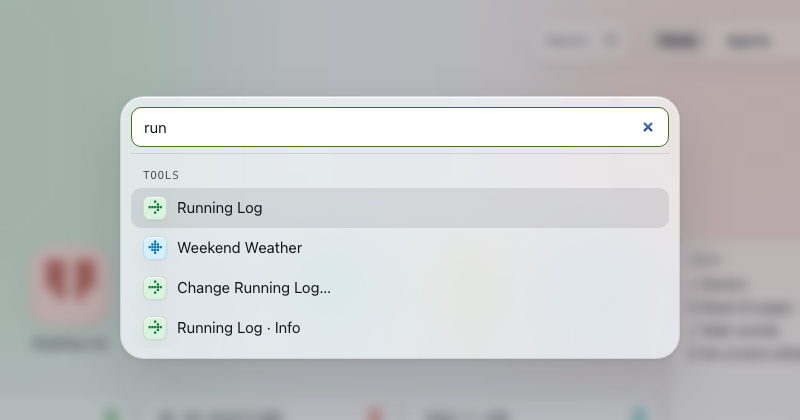
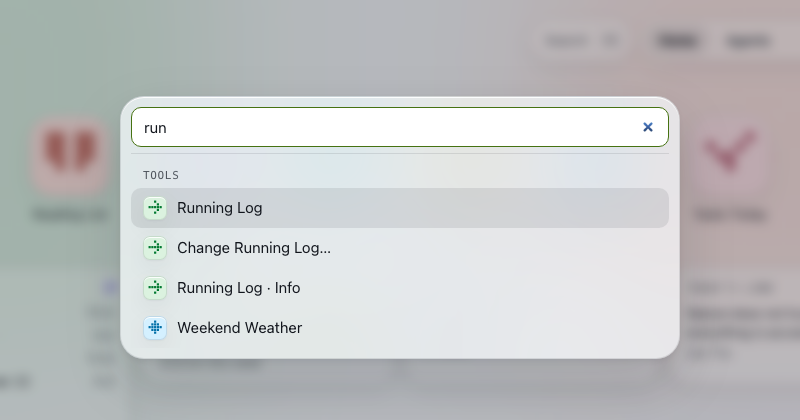
Post-launch fixes: failure reasons, health detail, doctor's registration check, web client polish
- The Inbox and Activity show a failed build's own reason (and what stopped
  the builder), not just "The builder stopped".
- Accounts shows a connection's health detail.
- hewn doctor reads where Claude Code and Codex registered Hewn and warns
  when it's another Hewn (another port).
- Home tile labels and widget titles wrap between words with an ellipsis;
  tiles align; Home starts under the top bar; bar charts get a nice axis
  (barAxis); single-call Activity rows open like groups; the palette ranks
  name matches first; the passkey page fits a phone.
- A test proves macOS metadata files (._*, .DS_Store) are ignored.
- Docs screenshots retaken where the UI changed.

diff --git a/packages/host-workerd/web/app.js b/packages/host-workerd/web/app.js
@@ -416,7 +416,10 @@ async function commandPalette() {
       const render = () => {
         const q = input.value.trim().toLowerCase();
         const words = q.split(/\s+/).filter(Boolean);
-        shown = items.filter((it) => (q ? words.every((w) => it.words.includes(w)) : !it.more)).slice(0, 40);
+        // Names first ("run" finds Running Log before a tool whose purpose mentions a long run), then the rest.
+        const named = (it) => words.every((w) => it.label.toLowerCase().includes(w));
+        const hits = items.filter((it) => (q ? words.every((w) => it.words.includes(w)) : !it.more));
+        shown = (q ? [...hits.filter(named), ...hits.filter((it) => !named(it))] : hits).slice(0, 40);
         at = Math.min(at, Math.max(0, shown.length - 1));
         let group = null;
         put(
@@ -2223,6 +2226,8 @@ async function accountsPage() {
           { class: "sub row tight wrap" },
           h("span", { class: `dot ${dot}` }),
           word.toLowerCase(),
+          // What health@1 says about it ("The session ended on 12 October"), when it says more than the word.
+          !b && x.health?.detail && [h("span", { class: "faint" }, "·"), h("span", { class: "clip-1 health-detail" }, x.health.detail)],
           !b && [h("span", { class: "faint" }, "·"), "used by", x.usedBy?.length ? x.usedBy.map((u) => capRef(all.get(u.id), u.id, { size: 18 })) : h("span", {}, "nothing yet")],
         ),
       ),
@@ -3303,12 +3308,13 @@ function activityRow(g, all, showCap) {
     } else {
       dot = errors.length === g.items.length ? "danger" : errors.length ? "warn" : "ok";
       text = on(`${who} made ${g.items.length} calls`, ref && ["to", ref], errors.length ? h("span", { class: "faint" }, `${errors.length} failed`) : "", modelNote);
-      expand = h(
-        "ul",
-        { class: "list nested", hidden: true },
-        g.items.map((c) => h("li", {}, h("span", { class: `dot ${c.outcome === "ok" ? "" : "danger"}` }), h("div", { class: "grow" }, h("span", { class: "mono small" }, c.operation), c.outcome !== "ok" && h("span", { class: "sub" }, c.outcome.replace(/^ERROR /, ""))), h("span", { class: "mono faint small" }, `${c.ms}ms`), h("span", { class: "mono faint small time" }, clock(c.at)))),
-      );
     }
+    // One call or several, the row opens the same way: each call's version, error, time taken.
+    expand = h(
+      "ul",
+      { class: "list nested", hidden: true },
+      g.items.map((c) => h("li", {}, h("span", { class: `dot ${c.outcome === "ok" ? "" : "danger"}` }), h("div", { class: "grow" }, h("span", { class: "mono small" }, c.operation), c.outcome !== "ok" && h("span", { class: "sub" }, c.outcome.replace(/^ERROR /, ""))), h("span", { class: "mono faint small" }, `${c.ms}ms`), h("span", { class: "mono faint small time" }, clock(c.at)))),
+    );
   } else if (g.kind === "models") {
     const failed = g.items.filter((x) => x.outcome === "failed");
     const cost = g.items.reduce((n, x) => n + x.costUsd, 0);
@@ -3329,7 +3335,7 @@ function activityRow(g, all, showCap) {
   } else if (g.kind === "build") {
     const what = g.buildKind === "create" ? "Built" : "Changed to";
     if (g.outcome === "promoted") text = on(`${what} v${g.version}`, ref && ["·", ref]);
-    else if (g.outcome === "failed") (dot = "danger"), (text = on(`Build failed: ${g.failure?.title ?? "see log"}`, ref && ["·", ref]));
+    else if (g.outcome === "failed") (dot = "danger"), (text = on(`Build failed: ${g.reason || g.failure?.title || "see log"}`, ref && ["·", ref]));
     else if (g.outcome === "cancelled") text = on("Build cancelled", ref && ["·", ref]);
     else (dot = "live"), (text = on("Building…", ref && ["·", ref]));
   } else if (g.kind === "lifecycle") {
@@ -4660,12 +4666,17 @@ async function passkeyPage() {
   });
   const device = /iPhone/.test(navigator.userAgent) ? "iPhone" : /iPad/.test(navigator.userAgent) ? "iPad" : /Android/.test(navigator.userAgent) ? "phone" : "device";
   const unlock = /iPhone|iPad/.test(navigator.userAgent) ? "Face ID" : /Mac/.test(navigator.userAgent) ? "Touch ID" : "a fingerprint or the screen lock";
+  // The art takes the room above the form, in the page's flow: on a phone it would run under the heading.
+  const art = h("pre", {});
+  if (window.hewnAscii) onLeave(window.hewnAscii(art, { cols: 64, rows: 40 }));
   view(
-    moment(
-      { left: "-60px", top: "80px", opacity: 0.3 },
+    h(
+      "div",
+      { class: "moment" },
       h(
         "main",
         { class: "signin" },
+        h("div", { class: "signin-art", "aria-hidden": "true" }, art),
         h("div", { class: "display signin-title" }, `Add this ${device}`),
         h("div", { class: "muted" }, `Next time it signs in with ${unlock}.`),
         passkeysSupported() ? [h("label", { class: "field" }, h("span", { class: "label" }, "Name"), name), add, h("a", { class: "btn ghost wide", href: "#/" }, "Not now"), status] : [h("div", { class: "muted" }, "This browser can't make passkeys."), h("a", { class: "btn lg wide", href: "#/" }, "Continue")],

diff --git a/packages/host-workerd/web/app.css b/packages/host-workerd/web/app.css
@@ -60,8 +60,8 @@ code.token { overflow-wrap: anywhere; }
 @media (max-width: 720px) { .first-run { padding: 0 var(--s5) var(--s7); } .first-run .first-display { font-size: var(--fs-3xl); } }
 
 /* A2 Home: a 6-column grid of 124px cells, centred */
-/* Grid sits in the upper part of the screen (a single row shouldn't float dead centre). */
-.home { flex: 1; display: flex; align-items: flex-start; justify-content: center; padding: clamp(var(--s6), 20vh, 200px) var(--s4) var(--s7); }
+/* Grid starts just under the top bar (a band of empty wallpaper above it reads as a gap). */
+.home { flex: 1; display: flex; align-items: flex-start; justify-content: center; padding: var(--s6) var(--s4) var(--s7); }
 /* Up to 6 columns; big screens get 8 or 10, still with wide margins (an iPad home screen, not a wall
    of icons). The grid is only as wide as its tiles (--n, set by the page), so a short row stays centred. */
 .home-grid { --col: 124px; display: grid; grid-template-columns: repeat(auto-fill, var(--col)); width: min(calc(var(--n, 6) * var(--col)), calc(6 * var(--col))); max-width: 100%; row-gap: 36px; }
@@ -71,7 +71,8 @@ code.token { overflow-wrap: anywhere; }
 .tile { position: relative; display: flex; flex-direction: column; align-items: center; gap: 10px; padding: var(--s1); color: var(--text); text-decoration: none; cursor: pointer; border-radius: var(--radius); touch-action: manipulation; -webkit-touch-callout: none; user-select: none; }
 .tile:hover { color: var(--text); }
 .tile-icon { display: inline-flex; }
-.tile-label { font-size: var(--fs-sm); text-align: center; max-width: 112px; overflow-wrap: anywhere; line-height: 1.3; }
+/* Two lines at most, broken between words; a word too long for the tile ends in an ellipsis. */
+.tile-label { font-size: var(--fs-sm); text-align: center; max-width: 112px; line-height: 1.3; display: -webkit-box; -webkit-box-orient: vertical; -webkit-line-clamp: 2; overflow: hidden; text-overflow: ellipsis; }
 .tile input.rename { width: 116px; min-height: 28px; padding: 2px 6px; font-size: var(--fs-sm); text-align: center; }
 .tile .more { opacity: 0; cursor: pointer; transition: opacity var(--dur) var(--ease); }
 .tile:hover .more, .tile:focus-visible .more { opacity: 1; }
@@ -80,6 +81,8 @@ code.token { overflow-wrap: anywhere; }
 /* Widgets share the icon grid: small 1×1, medium 2×1, large 2×2 cells; icons fill the gaps around them.
    Icons (with labels) and widgets sit centred on their row, so a widget lines up with the icons beside it. */
 .home-grid { grid-auto-flow: row dense; grid-auto-rows: minmax(116px, auto); align-items: center; }
+/* Icons line up at the top: a two-line label grows down, it doesn't lift its tile. */
+.home-grid > .tile { align-self: start; }
 .tile-widget { position: relative; display: flex; height: 116px; min-width: 0; margin: 0 6px; cursor: pointer; border-radius: var(--radius-lg); user-select: none; -webkit-touch-callout: none; }
 .tile-widget.w-medium { grid-column: span 2; }
 .tile-widget.w-large { grid-column: span 2; grid-row: span 2; height: auto; align-self: stretch; }
@@ -287,6 +290,7 @@ fieldset.job legend .sub { color: var(--text-2); }
 .info-row { min-height: 52px; }
 .info-key { width: 110px; flex: none; font-weight: 600; }
 .account-row { min-height: 64px; }
+.account-row .health-detail { min-width: 0; max-width: 100%; }
 .agent-row { min-height: 72px; }
 .add-choice { min-height: 72px; }
 .settings-save { padding: 10px 0 12px; }
@@ -325,6 +329,10 @@ fieldset.job legend .sub { color: var(--text-2); }
 .signin-brand .brand-name { font-size: 22px; }
 .signin .signin-title { font-size: 28px; }
 .signin-ascii { left: -60px; top: 80px; opacity: .3; }
+/* M3: the art fills what the form leaves above it (out to the column's edges), fading out before the heading. */
+.signin-art { flex: 1 1 0; min-height: 0; position: relative; margin: 0 -24px; overflow: hidden; pointer-events: none; mask-image: linear-gradient(transparent, #000 10%, #000 80%, transparent); }
+.signin-art pre { position: absolute; left: -36px; top: 50%; transform: translateY(-50%); margin: 0; font: 13px/13px var(--mono); color: var(--accent-ink); opacity: .3; white-space: pre; }
+@media (prefers-reduced-motion: reduce) { .signin-art pre { display: none; } }
 .signin-spot { --h: 125; --x: -20%; --y: -10%; --w: 420px; }
 
 /* M4 Home on a phone: 4 columns of 60px icons; widgets span the row */
@@ -333,7 +341,7 @@ fieldset.job legend .sub { color: var(--text-2); }
   .nav-menu { display: inline-flex; }
   .home-grid, .home-grid.editing { grid-template-columns: repeat(4, 1fr); row-gap: 18px; justify-items: center; }
   .home-grid .tile .app-icon { --size: 60px !important; }
-  .home-grid .tile-label { font-size: 11px; max-width: 72px; }
+  .home-grid .tile-label { font-size: 11px; max-width: 84px; }
   .home-grid .tile-widget { grid-column: 1 / -1; width: 100%; margin: 0; }
   .home-grid .tile-widget.w-large { grid-row: span 2; }
   .settings-layout { width: calc(100% - var(--s5)); }

diff --git a/packages/ui/src/chart.js b/packages/ui/src/chart.js
@@ -1,5 +1,5 @@
 // SPDX-License-Identifier: Apache-2.0
-// Hewn chart helper (v4: short charts fit, axes: false; v3: optional viewBox width; v2 added lineChart), served at /_platform/chart.js on every Hewn origin.
+// Hewn chart helper (v5: bar axes end near the tallest bar; v4: short charts fit, axes: false; v3: optional viewBox width; v2 added lineChart), served at /_platform/chart.js on every Hewn origin.
 // SVG built with DOM APIs (no innerHTML); colours come from ui.css tokens (--c1..--c8).
 //
 //   import { barChart } from "/_platform/chart.js";
@@ -26,6 +26,16 @@ function niceMax(v) {
   return [1, 2, 2.5, 5, 10].map((m) => m * p).find((x) => x >= v);
 }
 
+/**
+ * A bar chart's y axis: the largest total rounded up to the next round step, so the tallest bar
+ * nearly reaches the top (10.1 → 12.5 in steps of 2.5, not 20), and that step for the ticks.
+ */
+export function barAxis(v) {
+  if (!(v > 0)) return { max: 1, step: 0.25 };
+  const step = niceMax(v / 5);
+  return { max: Number((Math.ceil(v / step - 1e-9) * step).toPrecision(12)), step };
+}
+
 /** A line's y range: the data's own (temperatures can be negative, and 2–4° shouldn't look flat), on round ticks. */
 function lineRange(values) {
   const vs = values.filter((v) => Number.isFinite(v));
@@ -42,10 +52,10 @@ function lineRange(values) {
  * Room for the axes. A short chart gets two y ticks (0 and max) and tight padding, so the plot
  * keeps most of the height; `axes: false` draws the plot alone (a tiny chart).
  */
-function frame({ width, height, axes, max, labels, min = 0 }) {
+function frame({ width, height, axes, max, labels, min = 0, every = (max - min) / 4 }) {
   if (!axes) return { pad: { top: 4, right: 4, bottom: 4, left: 4 }, ticks: [], step: 0, labelY: 0 };
   const short = height < 120;
-  const ticks = short ? [min, max] : [0, 1, 2, 3, 4].map((t) => min + ((max - min) / 4) * t);
+  const ticks = short ? [min, max] : Array.from({ length: Math.round((max - min) / every) + 1 }, (_, t) => Number((min + every * t).toPrecision(12)));
   const pad = { top: short ? 6 : 12, right: 8, bottom: short ? 18 : 28, left: 10 + 6.5 * Math.max(...ticks.map((v) => fmt(v).length)) };
   const widest = 6.5 * Math.max(1, ...labels.map((l) => String(l).length)) + 6;
   const step = Math.max(1, Math.ceil(labels.length / Math.max(2, Math.floor((width - pad.left - pad.right) / widest))));
@@ -55,8 +65,8 @@ function frame({ width, height, axes, max, labels, min = 0 }) {
 /** Vertical bar chart, grouped or stacked. Replaces the container's contents. */
 export function barChart(container, { labels, series, stacked = false, unit = "", height = 240, width = 640, axes = true }) {
   const totals = labels.map((_, i) => (stacked ? series.reduce((a, s) => a + (s.values[i] || 0), 0) : Math.max(0, ...series.map((s) => s.values[i] || 0))));
-  const max = niceMax(Math.max(0, ...totals));
-  const { pad, ticks, step, labelY } = frame({ width, height, axes, max, labels });
+  const { max, step: every } = barAxis(Math.max(0, ...totals));
+  const { pad, ticks, step, labelY } = frame({ width, height, axes, max, labels, every });
   const innerW = width - pad.left - pad.right;
   const innerH = height - pad.top - pad.bottom;
   const y = (v) => pad.top + innerH - (v / max) * innerH;

diff --git a/packages/host-workerd/src/surface/web.ts b/packages/host-workerd/src/surface/web.ts
@@ -652,6 +652,12 @@ export function unresolvedFailures<T extends { buildId: string; capabilityId: st
   );
 }
 
+/**
+ * A failed build's reason in one line, as its build page leads with it: the failure's title ("1 of
+ * 3 tests didn't pass"), or, when the title only says the builder stopped, what it stopped on.
+ */
+export const failureReason = (f?: { title: string; detail: string }) => (!f ? "" : f.title === "The builder stopped" && f.detail ? f.detail : f.title);
+
 export interface InboxItem {
   kind: "grant" | "build" | "review" | "agent" | "confirmation" | "schedule" | "model" | "spend" | "connection";
   id: string;
@@ -688,7 +694,7 @@ async function inbox(platform: Platform, owner: Agent, recent: boolean) {
   for (const b of builds.filter((x) => x.status === "review"))
     needs.push({ kind: "review", id: b.buildId, buildId: b.buildId, capabilityId: b.capabilityId, title: nameOf(b.capabilityId), detail: `${who(b.requestedBy)} changed it: it waits for you`, severity: "warn", action: "Review", at: b.updatedAt });
   for (const b of unresolvedFailures(builds))
-    needs.push({ kind: "build", id: b.buildId, buildId: b.buildId, capabilityId: b.capabilityId, title: platform.registry.getCapability(b.capabilityId) ? nameOf(b.capabilityId) : String(b.request?.name ?? b.capabilityId), detail: `Build failed${b.failure?.title ? ` · ${b.failure.title}` : ""}`, severity: "danger", action: "Show", at: b.updatedAt });
+    needs.push({ kind: "build", id: b.buildId, buildId: b.buildId, capabilityId: b.capabilityId, title: platform.registry.getCapability(b.capabilityId) ? nameOf(b.capabilityId) : String(b.request?.name ?? b.capabilityId), detail: `Build failed${b.failure ? ` · ${failureReason(b.failure)}` : ""}`, severity: "danger", action: "Show", at: b.updatedAt });
   for (const x of platform.listSchedules(owner).filter((s) => s.status === "proposed"))
     needs.push({ kind: "schedule", id: x.id, capabilityId: x.capabilityId, agentId: x.createdBy, title: nameOf(x.capabilityId), detail: `${who(x.createdBy)} wants to run ${x.operation.split("@")[0]} ${x.cadence}`, severity: "warn", action: "Review", at: x.createdAt });
 
@@ -773,7 +779,7 @@ function activity(platform: Platform, owner: Agent, q: { capability?: string; ag
       buildKind: b.kind,
       builder: b.builder,
       version: row.resultVersion,
-      ...(b.failure ? { failure: b.failure } : {}),
+      ...(b.failure ? { failure: b.failure, reason: failureReason(b.failure) } : {}),
     });
   }
   for (const c of recentCalls(platform, owner, 5000, 2000)) {

diff --git a/test/service.test.ts b/test/service.test.ts
@@ -248,3 +248,34 @@ test("WSL: a hidden user bus is explained, with the fix, in errors, status and d
     t.cleanup();
   }
 });
+
+test("doctor: an agent registered with another Hewn (another port) is a warning, with the fix", async () => {
+  const t = setup();
+  try {
+    const agent = (url: string) => ({ agentId: "claude-code", label: "Claude Code", detect: () => true, registered: () => true, registeredUrl: () => url }) as any;
+    const run = (url: string) =>
+      runDoctor({ home: t.home, port: 7850, userHome: t.home.root, harnesses: [agent(url)], health: async () => false, service: () => ({ installed: false, running: false }), bundle: async () => undefined, hasWorkerd: () => true, sandbox: () => ({ ok: true, how: "x" }), keySource: () => "file", browser: () => "x", which: () => true, loggedIn: () => true });
+    const other = (await run("http://127.0.0.1:7717/mcp")).find((c) => c.name === "Claude Code")!;
+    assert.equal(other.state, "warn");
+    assert.match(other.detail, /another Hewn \(this one is on port 7850\)/);
+    assert.match(other.fix!, /hewn setup --agents claude-code/);
+    assert.equal((await run("http://127.0.0.1:7850/mcp")).find((c) => c.name === "Claude Code")!.state, "ok");
+    assert.equal((await run("not a url")).find((c) => c.name === "Claude Code")!.state, "ok", "an address it can't read isn't an error");
+  } finally {
+    t.cleanup();
+  }
+});
+
+test("Codex's config: the address Hewn is registered at", async () => {
+  const { harnesses } = await import("@hewntools/cli/setup/harnesses.ts");
+  const home = mkdtempSync(join(tmpdir(), "hewn-codex-"));
+  try {
+    const codex = harnesses().find((h) => h.agentId === "codex")!;
+    const { mkdirSync } = await import("node:fs");
+    mkdirSync(join(home, ".codex"));
+    writeFileSync(join(home, ".codex", "config.toml"), '[mcp_servers.other]\nurl = "http://x/mcp"\n\n[mcp_servers.hewn]\nurl = "http://127.0.0.1:7717/mcp"\n\n[profile]\nmodel = "y"\n');
+    assert.equal(codex.registeredUrl!(home), "http://127.0.0.1:7717/mcp");
+  } finally {
+    rmSync(home, { recursive: true, force: true });
+  }
+});

diff --git a/test/web.test.ts b/test/web.test.ts
@@ -67,6 +67,7 @@ describe("web client (owner surface)", () => {
     const builder: CapabilityBuilder = {
       name: "fake",
       build: async (job) => {
+        if (job.capabilityId === "stops-early") throw new Error("hit the usage limit");
         appendFileSync(job.logPath, "00:00:00 → Write src/index.ts\n");
         job.onActivity?.("→ Write src/index.ts");
         cpSync(SEED, job.workspace, { recursive: true });
@@ -340,6 +341,22 @@ describe("web client (owner surface)", () => {
       const again = await api(`/builds/${fix.json.buildId}/fix`, { method: "POST" });
       assert.equal(again.json.request.requirements.split("--- Fix request ---").length, 2);
       await platform.settle(again.json.buildId);
+    });
+
+    test("a failed build's reason reaches the Inbox and Activity, as its build page leads with it", async () => {
+      const [last] = platform.registry.recentBuilds(1);
+      const title = (await api(`/builds/${last}`)).json.failure.title;
+      const inbox = (await api("/inbox")).json.needs.find((n: any) => n.buildId === last);
+      assert.equal(inbox.detail, `Build failed · ${title}`);
+      // The builder itself stopped: the title alone ("The builder stopped") says nothing; what it stopped on does.
+      const b = await api("/capabilities", { method: "POST", body: { name: "Stops Early", purpose: "p", requirements: "r" } });
+      await platform.settle(b.json.buildId);
+      const failure = (await api(`/builds/${b.json.buildId}`)).json.failure;
+      assert.deepEqual([failure.title, failure.detail], ["The builder stopped", "hit the usage limit"]);
+      assert.equal((await api("/inbox")).json.needs.find((n: any) => n.buildId === b.json.buildId).detail, "Build failed · hit the usage limit");
+      const row = (await api("/activity")).json.items.find((i: any) => i.buildId === b.json.buildId);
+      assert.equal(row.reason, "hit the usage limit");
+      assert.equal((await api("/activity")).json.items.find((i: any) => i.buildId === last).reason, title);
     });
 
     test("home data: hue, icon kind, last build, in-flight builds", async () => {

diff --git a/packages/cli/src/setup/harnesses.ts b/packages/cli/src/setup/harnesses.ts
@@ -39,6 +39,8 @@ export interface Harness {
   detect(): boolean;
   /** Whether the harness has Hewn registered (reads its own config; never runs it). */
   registered(userHome: string): boolean;
+  /** The address Hewn is registered at, when the harness's config says (to tell which Hewn it is). */
+  registeredUrl?(userHome: string): string | undefined;
   steps(ctx: SetupContext): Step[];
   /** The harness's own OAuth sign-in to Hewn (opens the browser at Hewn's approval page). */
   login(url: string): string[];
@@ -81,6 +83,14 @@ export function harnesses(exec: Exec = realExec): Harness[] {
           return false;
         }
       },
+      registeredUrl: (home) => {
+        try {
+          const url = JSON.parse(readFileSync(join(home, ".claude.json"), "utf8")).mcpServers?.hewn?.url;
+          return typeof url === "string" ? url : undefined;
+        } catch {
+          return undefined;
+        }
+      },
       login: () => withPty(["claude", "mcp", "login", "hewn"]),
       // `claude mcp login` is recent; older versions sign in from inside a session.
       loginFix: (output) =>
@@ -114,6 +124,12 @@ export function harnesses(exec: Exec = realExec): Harness[] {
       registered: (home) => {
         const config = join(home, ".codex", "config.toml");
         return existsSync(config) && /^\[mcp_servers\.hewn\]/m.test(readFileSync(config, "utf8"));
+      },
+      registeredUrl: (home) => {
+        const config = join(home, ".codex", "config.toml");
+        if (!existsSync(config)) return undefined;
+        const section = /^\[mcp_servers\.hewn\]\s*$([\s\S]*?)(?=^\[|(?![\s\S]))/m.exec(readFileSync(config, "utf8"))?.[1] ?? "";
+        return /^\s*url\s*=\s*"([^"]+)"/m.exec(section)?.[1];
       },
       // `codex mcp add` signs in by itself when the server speaks OAuth: adding is the login.
       login: (url) => ["codex", "mcp", "add", "hewn", "--url", url],

diff --git a/packages/cli/src/doctor.ts b/packages/cli/src/doctor.ts
@@ -152,7 +152,14 @@ export async function runDoctor(d: DoctorDeps): Promise<Check[]> {
   for (const h of d.harnesses) {
     if (!h.detect()) add({ name: h.label, state: "ok", detail: "not installed on this machine (skipped)" });
     else if (!h.registered(d.userHome)) add({ name: h.label, state: "warn", detail: "installed, but Hewn isn't connected", fix: "Agents → Connect an agent (web client), or hewn setup" });
-    else add({ name: h.label, state: "ok", detail: `Hewn registered (if it asks to sign in: hewn setup --agents ${h.agentId})` });
+    else {
+      // Registered with *a* Hewn; check it's this one (another home, another port).
+      const at = h.registeredUrl?.(d.userHome);
+      const url = at && URL.canParse(at) ? new URL(at) : undefined;
+      if (at && url && Number(url.port || 80) !== d.port && /^(127\.0\.0\.1|localhost|\[::1\])$/.test(url.hostname))
+        add({ name: h.label, state: "warn", detail: `Hewn is registered at ${at}, another Hewn (this one is on port ${d.port})`, fix: `hewn setup --agents ${h.agentId}, to point it at this one` });
+      else add({ name: h.label, state: "ok", detail: `Hewn registered (if it asks to sign in: hewn setup --agents ${h.agentId})` });
+    }
   }
   const waiting = up ? await d.pendingAgents?.().catch(() => 0) : 0;
   if (waiting) add({ name: "Approvals", state: "warn", detail: `${waiting} agent${waiting > 1 ? "s" : ""} waiting to connect`, fix: "Agents in the web client, or hewn agents pending" });

diff --git a/test/widgets.test.ts b/test/widgets.test.ts
@@ -70,6 +70,21 @@ describe("widgets: pure parts", () => {
     assert.equal(viewText("Top", { template: "list", items: [{ title: "a", value: 1 }], empty: "none" }), "Top\n- a: 1");
   });
 
+  test("bar charts: the y axis ends on a round step just above the tallest bar", async () => {
+    // A browser module (no types): imported by URL.
+    const { barAxis } = (await import(new URL("../packages/ui/src/chart.js", import.meta.url).href)) as { barAxis: (v: number) => { max: number; step: number } };
+    assert.deepEqual(barAxis(10.1), { max: 12.5, step: 2.5 }, "not 20");
+    assert.deepEqual(barAxis(12.4), { max: 12.5, step: 2.5 });
+    assert.deepEqual(barAxis(10), { max: 10, step: 2 });
+    assert.deepEqual(barAxis(3), { max: 3, step: 1 });
+    assert.deepEqual(barAxis(0.3), { max: 0.3, step: 0.1 });
+    assert.deepEqual(barAxis(0), { max: 1, step: 0.25 });
+    for (let v = 0.07; v < 5000; v *= 1.37) {
+      const { max, step } = barAxis(v);
+      assert.ok(max >= v && max - v < step + 1e-9 && max / step <= 5 + 1e-9, `${v} → ${max} by ${step}`);
+    }
+  });
+
   test("read-only SQL: reads pass, anything that writes is refused", () => {
     for (const ok of ["SELECT * FROM t", " select count(*) from t where name = 'delete me'", "WITH x AS (SELECT 1) SELECT * FROM x", 'SELECT "update" FROM t', "SELECT replace(a, 'x', 'y') FROM t", "PRAGMA table_info(t)", "select updated_at from t -- insert"]) {
       assert.equal(isReadOnlySql(ok), true, ok);

diff --git a/test/seeds.test.ts b/test/seeds.test.ts
@@ -2,7 +2,8 @@
 // The example tools in seeds/ install through the full validation (manifest, bundle, contracts,
 // migrations, their own test cases, widgets drawn in every size), and do what they say.
 import assert from "node:assert/strict";
-import { readdirSync } from "node:fs";
+import { cpSync, mkdtempSync, readdirSync, rmSync, writeFileSync } from "node:fs";
+import { tmpdir } from "node:os";
 import { join, resolve } from "node:path";
 import { afterEach, beforeEach, describe, test } from "node:test";
 import { USER } from "@hewntools/core/auth.ts";
@@ -23,6 +24,18 @@ describe("seeds", () => {
       assert.equal(r.status, "promoted");
     });
   }
+
+  test("macOS metadata files (._*, .DS_Store) are ignored, not refused", async () => {
+    const dir = mkdtempSync(join(tmpdir(), "hewn-appledouble-"));
+    try {
+      cpSync(join(SEEDS, "running-log"), dir, { recursive: true });
+      for (const f of ["._capability.json", "migrations/._001_init.sql", ".DS_Store", "src/.DS_Store"]) writeFileSync(join(dir, f), "\u0000\u0005\u0016\u0007Mac OS X");
+      const r = await installFrom(t.platform, dir);
+      assert.equal(r.status, "promoted");
+    } finally {
+      rmSync(dir, { recursive: true, force: true });
+    }
+  });
 
   test("reading list: progress, finishing, the nightstand", async () => {
     await installFrom(t.platform, join(SEEDS, "reading-list"));

diff --git a/packages/ui/src/ui.css b/packages/ui/src/ui.css
@@ -449,7 +449,8 @@ input[type=range].hue-range { width: 100%; accent-color: var(--accent); }
 .jw-body > * { flex-shrink: 0; }
 .jw-body > .jw-chart { flex: 1 1 0; min-height: 40px; }
 .jw-t-stat .jw-body, .jw-t-progress .jw-body { justify-content: center; }
-.jw-value { font-size: var(--fs-2xl); font-weight: 650; letter-spacing: -0.03em; line-height: 1.05; font-variant-numeric: tabular-nums; overflow-wrap: anywhere; }
+/* Values and progress labels (a book's title) wrap between words, two lines at most; a word wider than the widget ends in an ellipsis. */
+.jw-value { font-size: var(--fs-2xl); font-weight: 650; letter-spacing: -0.03em; line-height: 1.05; font-variant-numeric: tabular-nums; display: -webkit-box; -webkit-box-orient: vertical; -webkit-line-clamp: 2; overflow: hidden; text-overflow: ellipsis; }
 .jw-large .jw-value { font-size: var(--fs-3xl); }
 .jw .jw-value.jw-value-sm { font-size: var(--fs-lg); letter-spacing: -0.01em; }
 .jw-unit { margin-left: 4px; font-size: var(--fs); font-weight: 500; color: var(--text-2); letter-spacing: 0; }

diff --git a/CHANGELOG.md b/CHANGELOG.md
@@ -5,6 +5,10 @@ Hewn follows semver for the CLI and your data: `hewn upgrade` stays within a 0.x
 ## Unreleased
 
 - **Linux and WSL: the secrets key stays where it is.** Hewn keeps its key in a keyring only when one actually answers `secret-tool`; WSL and servers have a session bus but no keyring, and installing `libsecret-tools` there made Hewn restart over and over ("Could not connect"). A home that already has `master.key` keeps using it, even if a keyring appears later. `hewn doctor` no longer suggests `libsecret-tools` on machines without a keyring.
+- **`hewn doctor` checks Claude Code and Codex point at this Hewn.** An agent registered with another Hewn (another home on another port) is now a warning with the fix, instead of "Hewn registered".
+- **A failed build says why everywhere.** The Inbox and Activity show the build's own reason ("1 of 3 tests didn't pass", or what stopped the builder), not just "The builder stopped".
+- **Accounts shows a connection's health detail** ("expired · The session ended on 12 October").
+- **Web client polish:** tool names on Home and widget titles wrap between words (with an ellipsis when they don't fit) and tiles line up; Home starts just under the top bar; bar charts scale to their data; a single call in Activity opens like a group does; the command palette lists name matches first; the passkey page fits a phone.
 
 ## 0.4.0 (2026-10-19)
 
